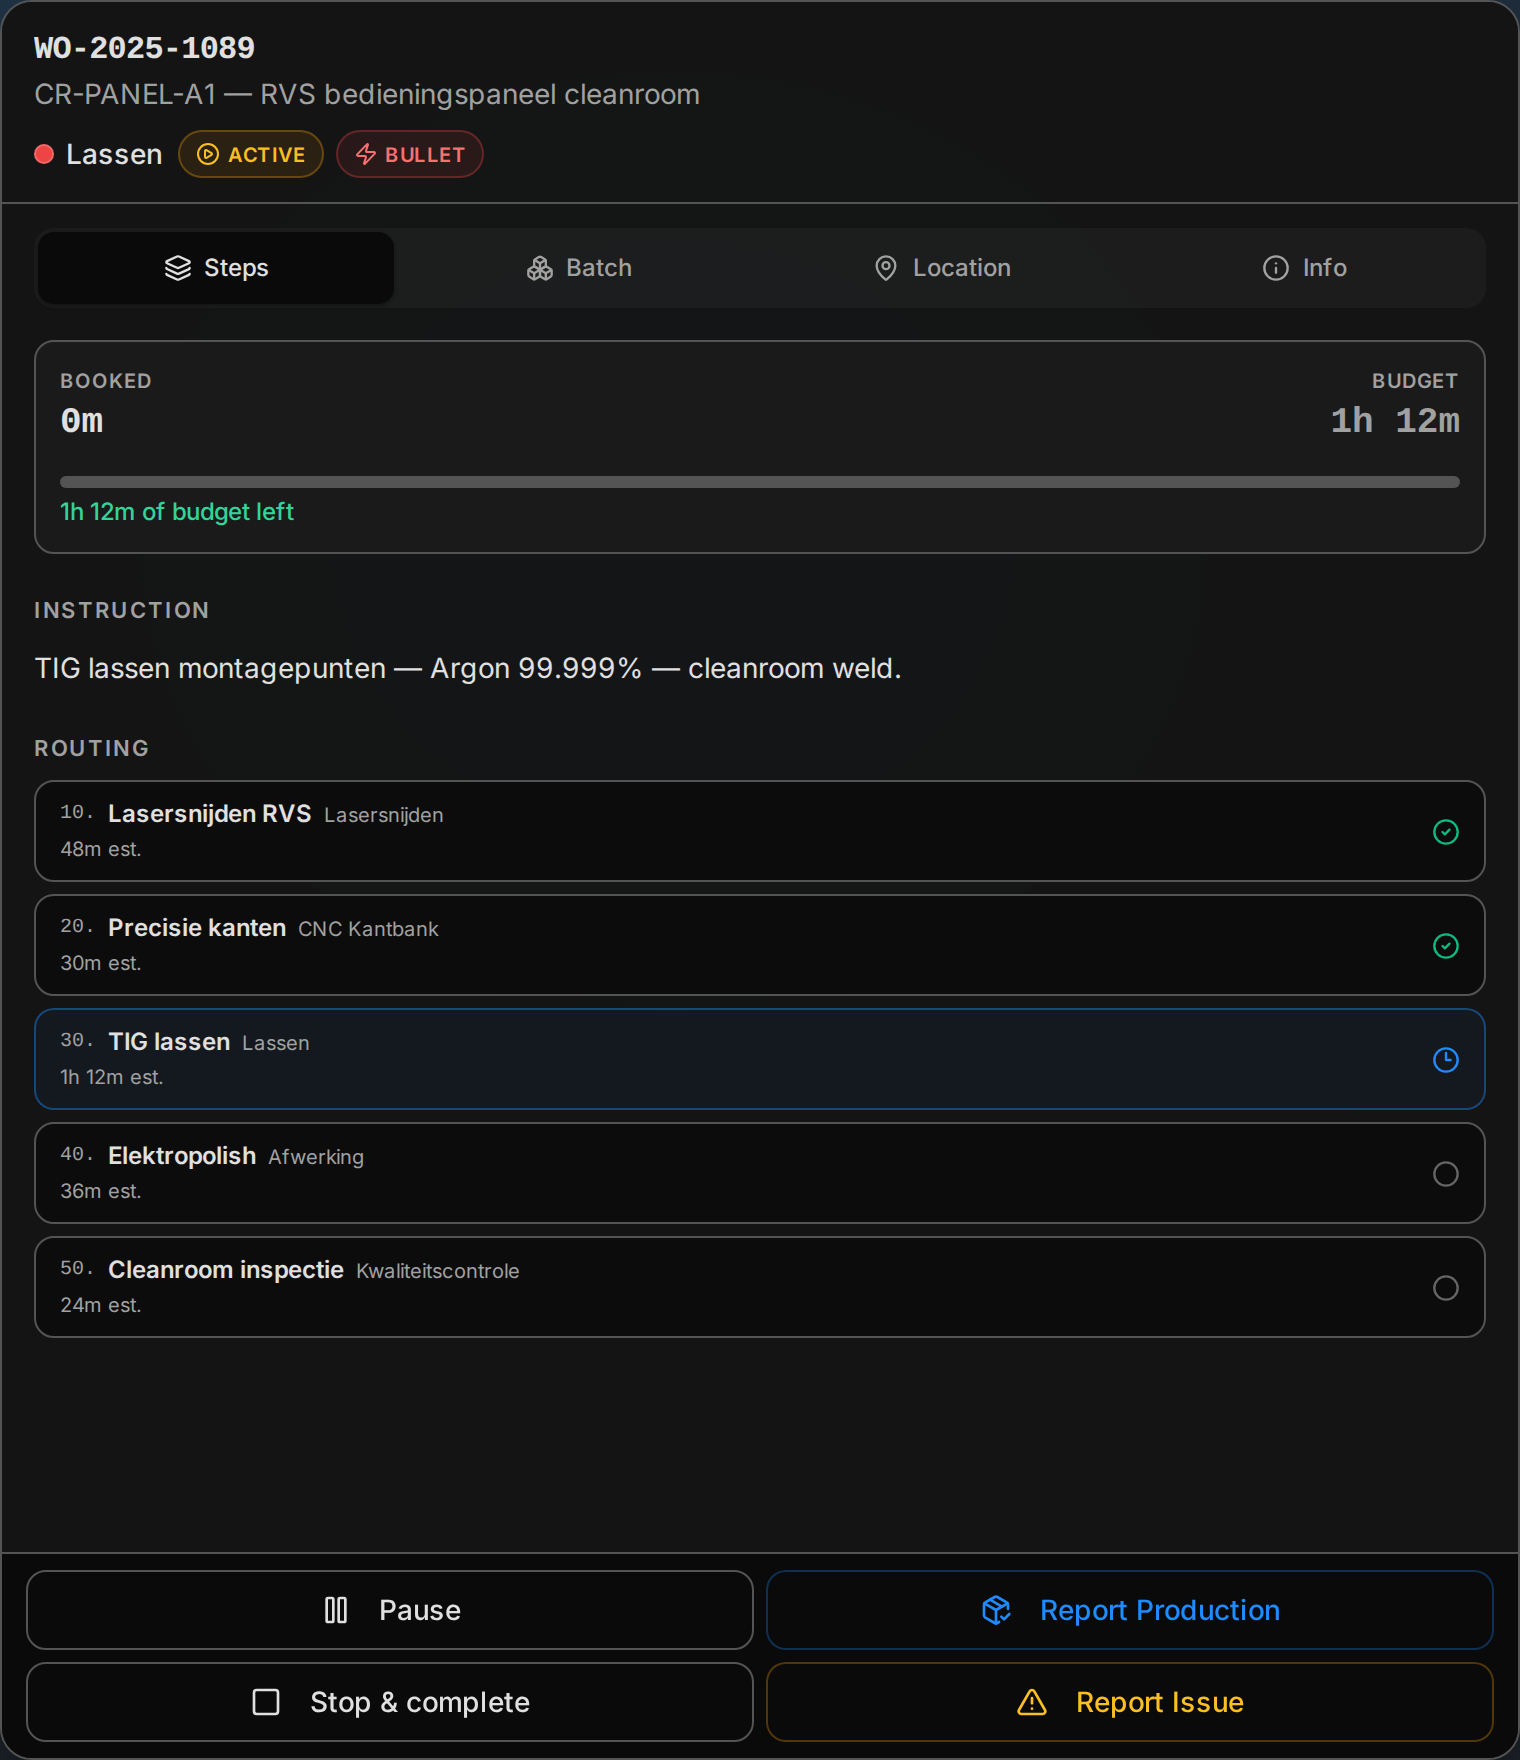
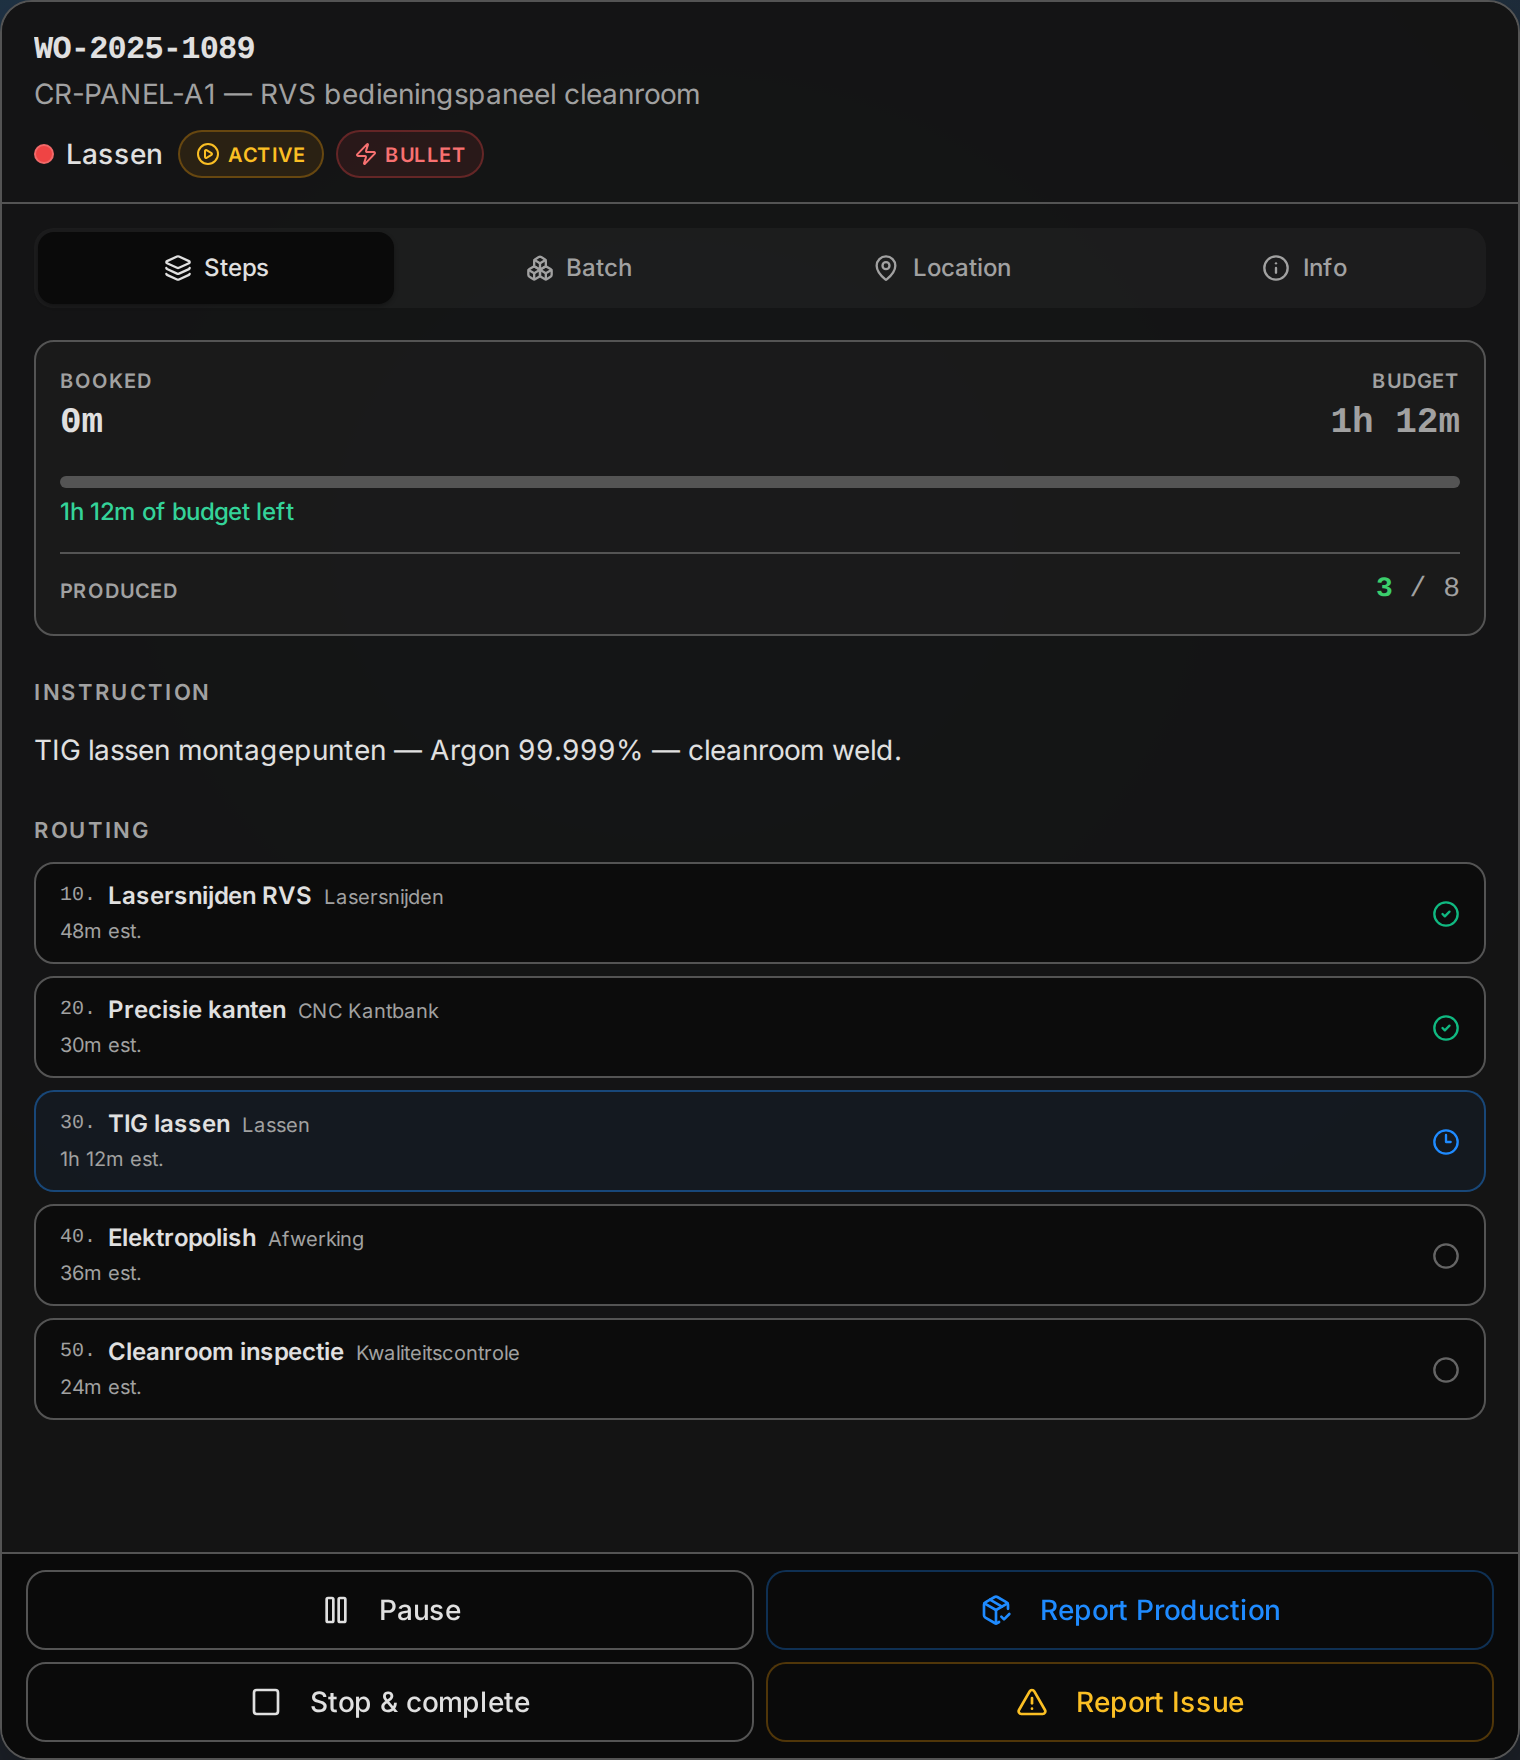
feat(terminal): show produced quantity so far vs planned (#929)
"The quantity produced so far is missing." Good parts reported against an
operation (operation_quantities.quantity_good) are now summed per operation in
the terminal load and surfaced as produced / planned — in the queue's Aantal
column (e.g. 3 / 12) and in the detail panel's progress block. Summed
client-side over a single tenant-scoped query to avoid a large id-list URL.

i18n EN/NL/DE; screenshot harness shows 3 / 8.

Claude-Session: https://claude.ai/code/session_01EVuRrje2icP7bPNvnz1iF8

Pull request: feat(terminal): show produced quantity so far vs planned
## Summary
"The quantity produced so far is missing." Good parts reported against an operation are now surfaced as **produced / planned** in the queue and the detail panel.

## Release Path
- [x] Next biweekly train

## Changes
- `useOperatorTerminal` sums `operation_quantities.quantity_good` per operation (one tenant-scoped query, summed client-side to avoid a large id-list URL — the v0.7 chunking lesson) and maps it onto `TerminalJob.producedQuantity`.
- **Queue Aantal column** shows `3 / 12` once any good parts are reported (just the planned number otherwise).
- **Detail panel** progress block shows a **Produced 3 / 8** row under booked-vs-budget.
- i18n EN/NL/DE (`terminal.produced`); screenshot harness shows `3 / 8`.

## Checklist
- [x] Non-`main` branch
- [x] `npm run build` passes
- [x] `npm run test:run` passes (terminal suites green)
- [x] New UI text uses i18n keys (EN + NL + DE)
- [x] Column names verified against actual DB schema (`operation_quantities.quantity_good`)
- [x] No customer-identifying, credential, or commercial details added

---
🤖 Generated with [Claude Code](https://claude.com/claude-code)

---
_Generated by [Claude Code](https://claude.ai/code/session_01EVuRrje2icP7bPNvnz1iF8)_

diff --git a/src/hooks/useOperatorTerminal.ts b/src/hooks/useOperatorTerminal.ts
@@ -156,6 +156,9 @@ export function useOperatorTerminal() {
     Record<string, BatchScanMode>
   >({});
   const [scanFeedback, setScanFeedback] = useState<ScanFeedback | null>(null);
+  const [producedByOperation, setProducedByOperation] = useState<Map<string, number>>(
+    new Map(),
+  );
 
   const [pdfUrl, setPdfUrl] = useState<string | null>(null);
   const [stepUrl, setStepUrl] = useState<string | null>(null);
@@ -212,7 +215,7 @@ export function useOperatorTerminal() {
     try {
       setLoading(true);
 
-      const [opsData, cellsData, tenantData] = await Promise.all([
+      const [opsData, cellsData, tenantData, quantitiesData] = await Promise.all([
         fetchOperationLookupDetails(profile.tenant_id),
         supabase
           .from("cells")
@@ -225,7 +228,22 @@ export function useOperatorTerminal() {
           .select("feature_flags, factory_opening_time, factory_closing_time, timezone")
           .eq("id", profile.tenant_id)
           .single(),
+        // Good parts reported per operation — summed client-side to avoid a
+        // large id-list query (see the v0.7 chunking fix).
+        supabase
+          .from("operation_quantities")
+          .select("operation_id, quantity_good")
+          .eq("tenant_id", profile.tenant_id),
       ]);
+
+      const producedMap = new Map<string, number>();
+      for (const row of quantitiesData.data ?? []) {
+        producedMap.set(
+          row.operation_id,
+          (producedMap.get(row.operation_id) ?? 0) + (row.quantity_good ?? 0),
+        );
+      }
+      setProducedByOperation(producedMap);
 
       setLookupOperations(opsData);
       setOperations(opsData.filter((operation) => operation.status !== "completed"));
@@ -419,6 +437,7 @@ export function useOperatorTerminal() {
         description: String(op.part.part_number ?? ""),
         material: typeof op.part.material === "string" ? op.part.material : "",
         quantity: Number(op.part.quantity) || 0,
+        producedQuantity: producedByOperation.get(op.id) ?? 0,
         currentOp: String(op.operation_name ?? ""),
         totalOps: 0,
         hours: Number(remaining.toFixed(1)),
@@ -459,7 +478,7 @@ export function useOperatorTerminal() {
           : null,
       };
     },
-    [operatorId, selectedTerminalMode, workModeSettings, workingHoursActive],
+    [operatorId, selectedTerminalMode, workModeSettings, workingHoursActive, producedByOperation],
   );
 
   const allJobs = useMemo(

diff --git a/src/components/terminal/OperationTimeSummary.tsx b/src/components/terminal/OperationTimeSummary.tsx
@@ -15,9 +15,15 @@ import type { OperationBookedHours } from "@/hooks/useOperationBookedHours";
 export function OperationTimeSummary({
   booked,
   t,
+  producedQuantity = 0,
+  plannedQuantity = 0,
 }: {
   booked: OperationBookedHours;
   t: TFunction;
+  /** Good parts reported so far for this operation. */
+  producedQuantity?: number;
+  /** Planned part quantity. */
+  plannedQuantity?: number;
 }) {
   const { totalMinutes, plannedVsBooked: pvb, entries, activeCount } = booked;
   const planned = pvb.plannedMinutes;
@@ -86,6 +92,18 @@ export function OperationTimeSummary({
               ? t("terminal.time.over", "over budget")
               : t("terminal.time.left", "of budget left")}
           </div>
+        </div>
+      ) : null}
+
+      {plannedQuantity > 0 ? (
+        <div className="flex items-center justify-between border-t border-border pt-2">
+          <span className="text-[10px] font-semibold uppercase tracking-wider text-muted-foreground">
+            {t("terminal.produced", "Produced")}
+          </span>
+          <span className="font-mono text-sm">
+            <span className="font-semibold text-status-completed">{producedQuantity}</span>
+            <span className="text-muted-foreground"> / {plannedQuantity}</span>
+          </span>
         </div>
       ) : null}
 

diff --git a/src/components/terminal/JobRow.tsx b/src/components/terminal/JobRow.tsx
@@ -115,9 +115,16 @@ export function JobRow({ job, isSelected, onClick, variant }: JobRowProps) {
         {String(job.material || "-")}
       </td>
 
-      {/* Quantity */}
+      {/* Quantity — produced so far / planned once any good parts are reported */}
       <td className="whitespace-nowrap px-2 py-1.5 text-center text-sm text-foreground">
-        {job.quantity}
+        {job.producedQuantity ? (
+          <span className="font-mono">
+            <span className="font-semibold text-status-completed">{job.producedQuantity}</span>
+            <span className="text-muted-foreground"> / {job.quantity}</span>
+          </span>
+        ) : (
+          job.quantity
+        )}
       </td>
 
       {/* Remaining time — estimated minus booked, in minutes (formatted) */}

diff --git a/src/components/terminal/DetailPanel.tsx b/src/components/terminal/DetailPanel.tsx
@@ -485,8 +485,13 @@ export function DetailPanel({
 
             {/* Steps: instructions for this cell, then the full routing ── flat, no nested boxes */}
             <TabsContent value="steps" className="m-0 h-full space-y-5 overflow-auto">
-              {/* Time booked vs budget + who worked on this operation */}
-              <OperationTimeSummary booked={bookedHours} t={t} />
+              {/* Time booked vs budget, parts produced, and who worked on this operation */}
+              <OperationTimeSummary
+                booked={bookedHours}
+                t={t}
+                producedQuantity={job.producedQuantity ?? 0}
+                plannedQuantity={job.quantity}
+              />
 
               {/* Instruction — the operation's note, clearly labelled so its source is obvious */}
               <div className="space-y-2">

diff --git a/src/pages/dev/TerminalScreenshot.tsx b/src/pages/dev/TerminalScreenshot.tsx
@@ -11,6 +11,7 @@ const job: TerminalJob = {
   description: "CR-PANEL-A1 — RVS bedieningspaneel cleanroom",
   material: "RVS 316L",
   quantity: 8,
+  producedQuantity: 3,
   currentOp: "TIG lassen",
   totalOps: 5,
   hours: 72, // remaining MINUTES (estimated − booked), matching the DB contract

diff --git a/src/types/terminal.ts b/src/types/terminal.ts
@@ -6,6 +6,7 @@ export interface TerminalJob {
     description: string;
     material: string;
     quantity: number;
+    producedQuantity?: number; // Good parts reported so far (sum of operation_quantities.quantity_good)
     currentOp: string;
     totalOps: number; // We might not have this easily, default to 0 or sequence
     hours: number;